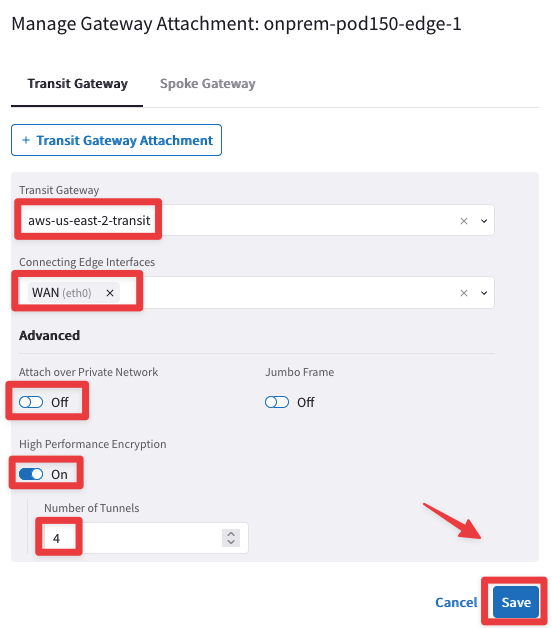
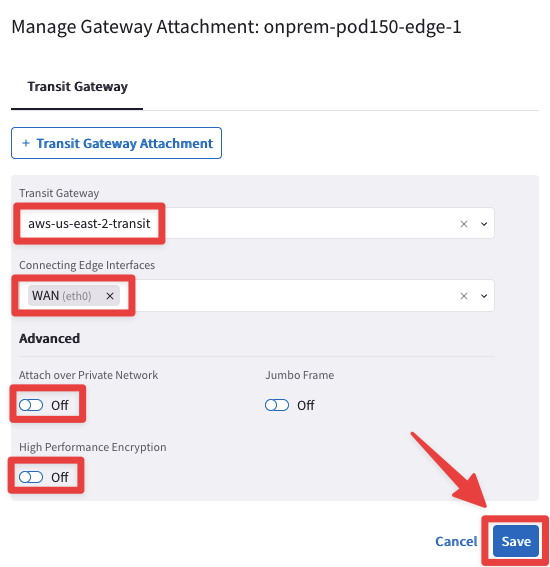
new update for pro

diff --git a/ace_pro/docs/lab8.md b/ace_pro/docs/lab8.md
@@ -426,8 +426,7 @@ Fill in the attachment template using the following settings:
 - **Transt Gateway**: <span style='color:#479608'>aws-us-east-2-transit</span>
 - **Connecting Edge Interfaces**: <span style='color:#479608'>WAN(etho)</span>
 - **Attach over Private Network**: <span style='color:#479608'>**OFF**</span>
-- **High Performance Encryption**: <span style='color:#479608'>**ON**</span>
-- **Number of Tunnels**: <span style='color:#479608'>4</span>
+- **High Performance Encryption**: <span style='color:#479608'>**OFF**</span>
 
 Do not forget to click on **Save**.
 
@@ -662,7 +661,7 @@ Fill in the attachment template using the following settings:
 
 Do not forget to click on **Save**.
 
-```{figure} images/lab8-edgedouble4.png
+```{figure} images/lab8-attachment01.png
 ---
 align: center
 ---
